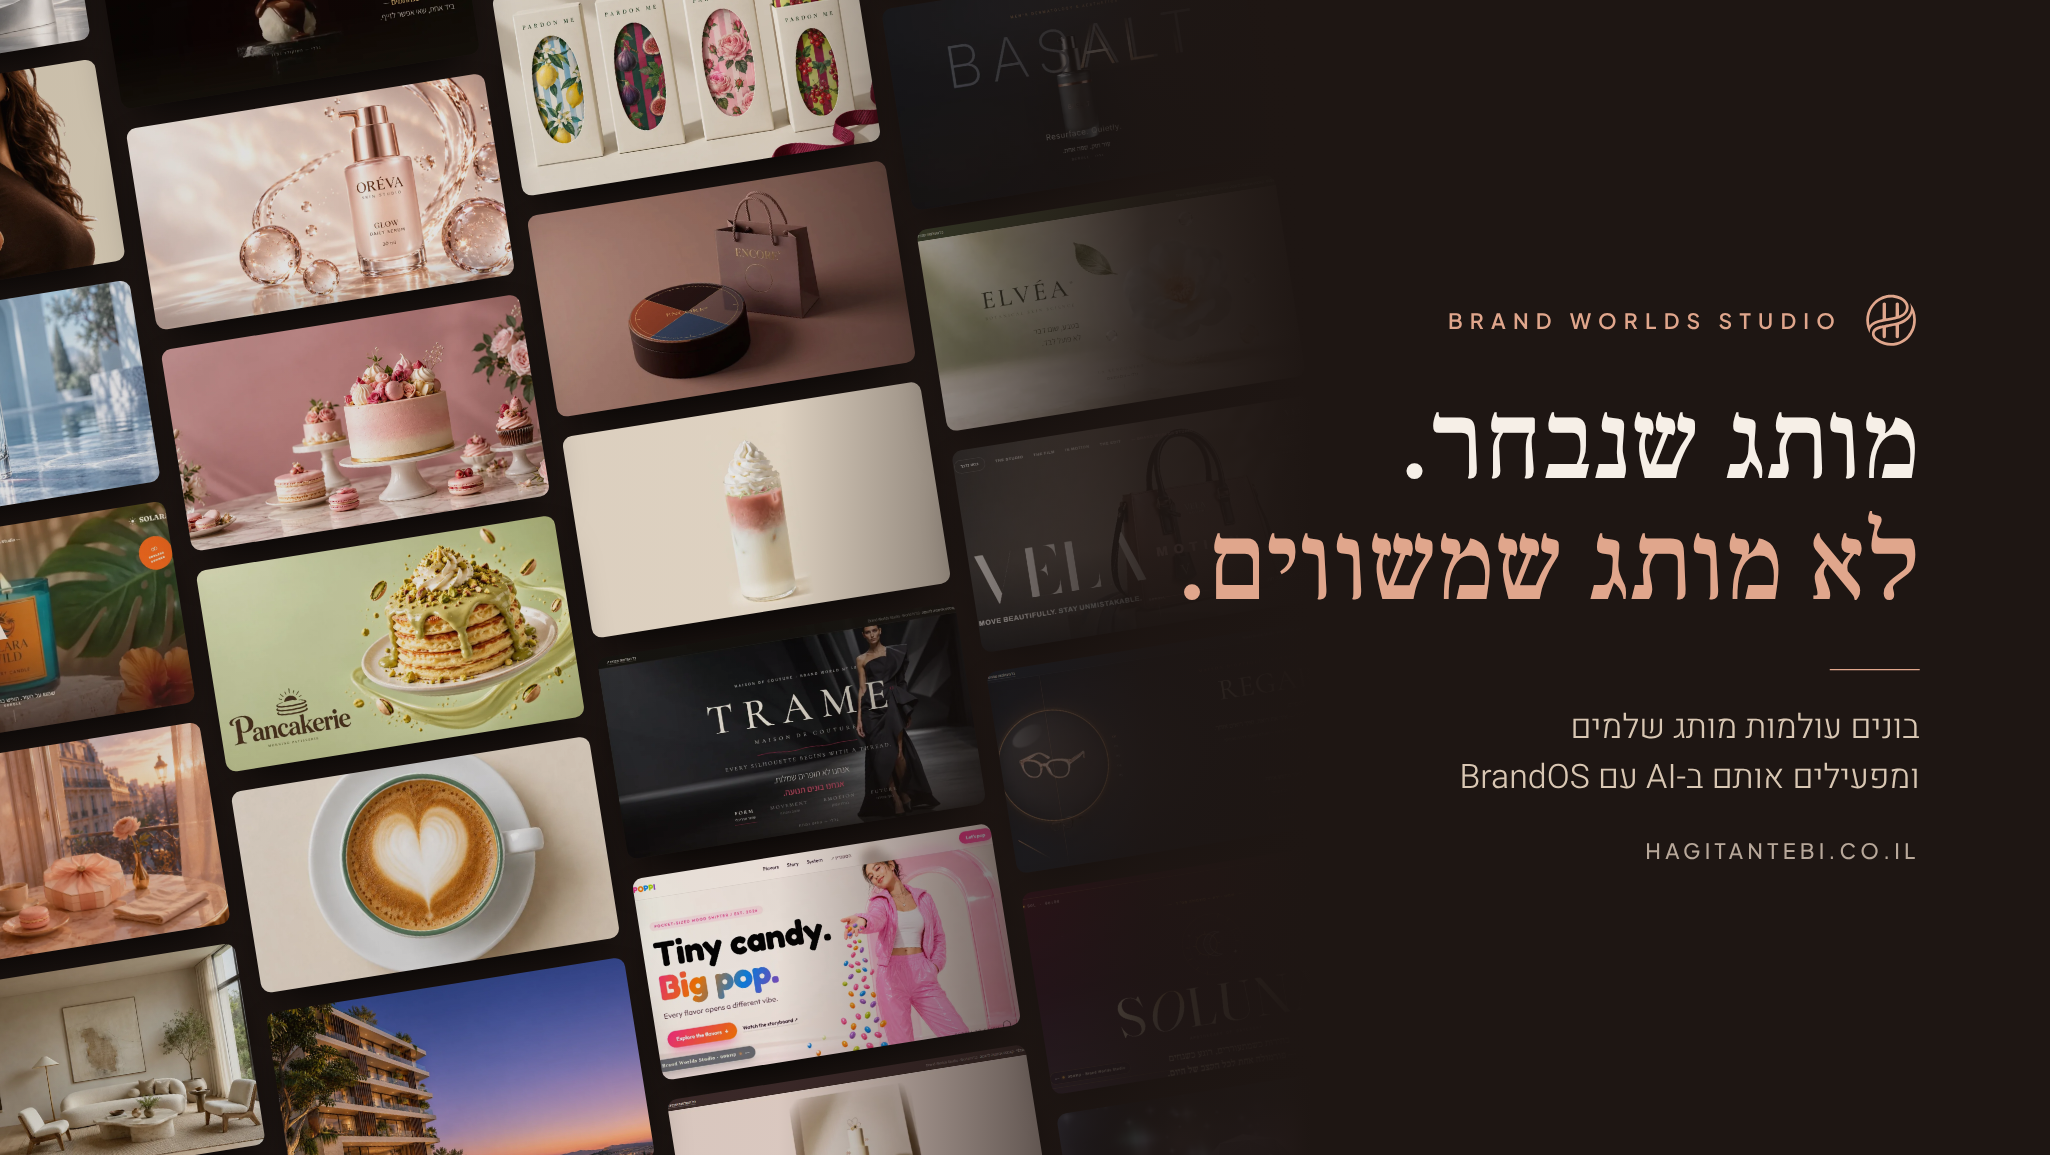
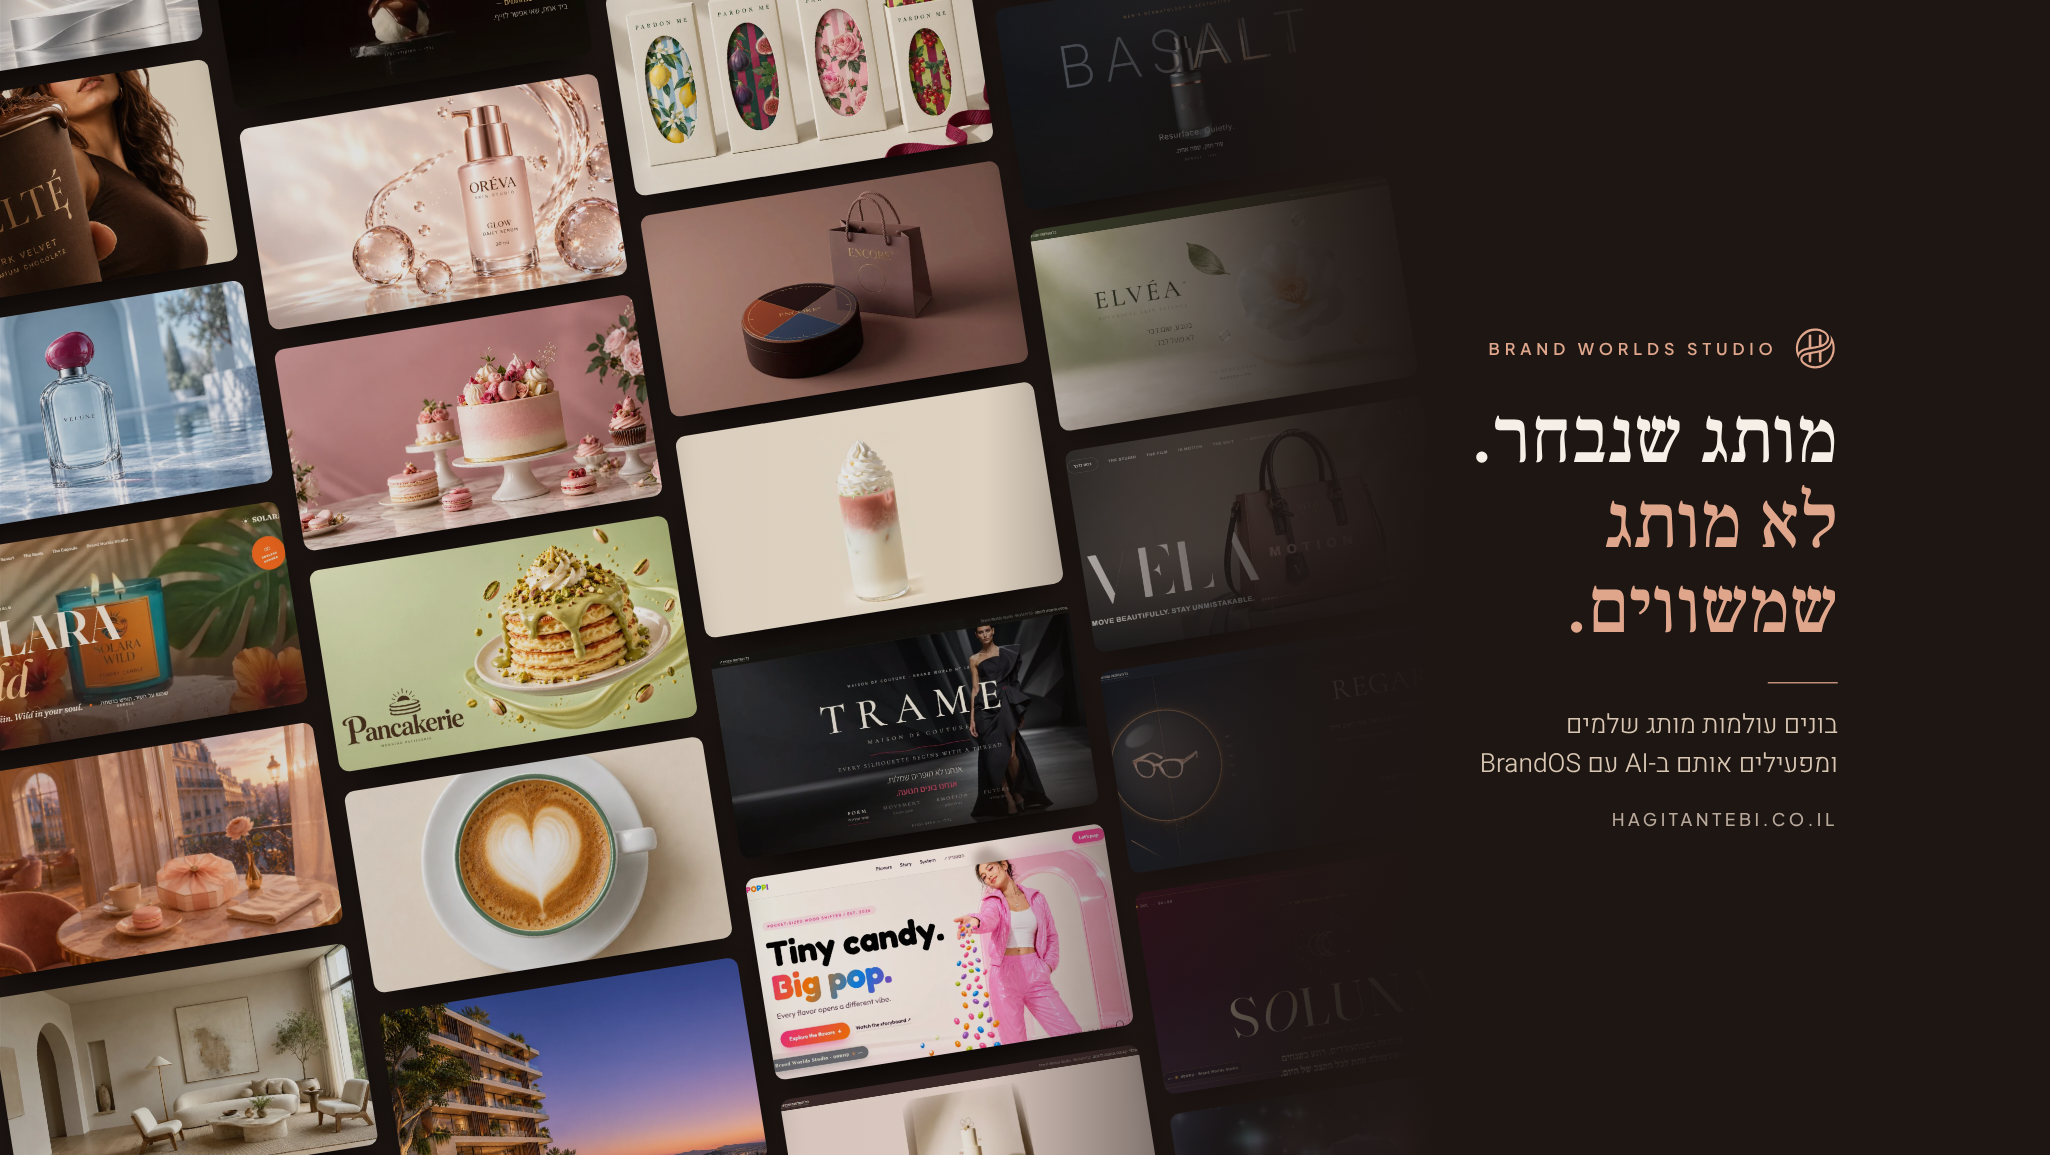
Rework Facebook covers for the mobile profile layout
Claude-Session: https://claude.ai/code/session_01Uv8GegvL6D9b9d1uM5DGhf

diff --git a/campaign-drop/2026-11-facebook-covers/src/business.html b/campaign-drop/2026-11-facebook-covers/src/business.html
@@ -3,18 +3,18 @@
 <style>
 *{margin:0;box-sizing:border-box}html{width:1640px;height:924px;overflow:hidden}
 body{width:1640px;height:924px;overflow:hidden;position:relative;background:#1E1613;font-family:'Heebo',sans-serif;color:#F6EFE7}
-.wall{position:absolute;left:-150px;top:-190px;width:1250px;display:grid;grid-template-columns:repeat(4,290px);gap:16px;transform:rotate(-9deg);direction:ltr}
+.wall{position:absolute;left:-60px;top:-190px;width:1250px;display:grid;grid-template-columns:repeat(4,290px);gap:16px;transform:rotate(-9deg);direction:ltr}
 .wall i{height:163px;border-radius:8px;background-size:cover;background-position:center;box-shadow:0 18px 40px -14px #000}
 .wall i:nth-child(4n+2),.wall i:nth-child(4n+4){transform:translateY(60px)}
-.fade{position:absolute;inset:0;background:linear-gradient(90deg,rgba(30,22,19,.15) 0%,rgba(30,22,19,.1) 38%,rgba(30,22,19,.9) 56%,#1E1613 64%)}
-.txt{position:absolute;right:104px;top:50%;transform:translateY(-50%);width:600px}
-.eye{display:flex;flex-direction:row-reverse;justify-content:flex-start;align-items:center;gap:16px;direction:ltr;font:600 17px 'Plus Jakarta Sans';letter-spacing:.34em;color:#E0A68C}
-.eye svg{width:46px;height:46px;color:#E0A68C}
-h1{font:500 88px/1.1 'Frank Ruhl Libre',serif;margin:28px 0 0;white-space:nowrap}
+.fade{position:absolute;inset:0;background:linear-gradient(90deg,rgba(30,22,19,.15) 0%,rgba(30,22,19,.1) 48%,rgba(30,22,19,.9) 64%,#1E1613 70%)}
+.txt{position:absolute;right:170px;top:50%;transform:translateY(-50%);width:340px}
+.eye{display:flex;flex-direction:row-reverse;justify-content:flex-start;align-items:center;gap:12px;direction:ltr;font:600 13px 'Plus Jakarta Sans';letter-spacing:.3em;white-space:nowrap;color:#E0A68C}
+.eye svg{width:36px;height:36px;color:#E0A68C}
+h1{font:500 62px/1.1 'Frank Ruhl Libre',serif;margin:20px 0 0;white-space:nowrap}
 h1 span{color:#E0A68C;display:block}
-.rule{width:72px;height:1px;background:#E0A68C;margin:34px 0 26px}
-.sub{font:300 27px/1.5 'Heebo';color:#D9C7B3}
-.url{margin-top:26px;font:500 17px 'Plus Jakarta Sans';letter-spacing:.2em;color:#B8A89A;direction:ltr;text-align:right}
+.rule{width:56px;height:1px;background:#E0A68C;margin:24px 0 18px}
+.sub{font:300 21px/1.5 'Heebo';color:#D9C7B3}
+.url{margin-top:18px;font:500 14px 'Plus Jakarta Sans';letter-spacing:.2em;color:#B8A89A;direction:ltr;text-align:right}
 </style></head><body>
 <div class="wall"><i style="background-image:url(../../../images/home-worlds/sonair.webp)"></i><i style="background-image:url(../../../images/home-worlds/signe.webp)"></i><i style="background-image:url(../../../images/home-worlds/lusha.webp)"></i><i style="background-image:url(../../../images/home-worlds/aurelle.webp)"></i><i style="background-image:url(../../../images/home-worlds/melte-card.webp)"></i><i style="background-image:url(../../../images/home-worlds/oreva.webp)"></i><i style="background-image:url(../../../images/home-worlds/pardon-me.webp)"></i><i style="background-image:url(../../../images/home-worlds/basalt.webp)"></i><i style="background-image:url(../../../images/home-worlds/velune.webp)"></i><i style="background-image:url(../../../images/home-worlds/miel.webp)"></i><i style="background-image:url(../../../images/home-worlds/encore.webp)"></i><i style="background-image:url(../../../images/home-worlds/elvea.webp)"></i><i style="background-image:url(../../../images/home-worlds/solara-wild.webp)"></i><i style="background-image:url(../../../images/home-worlds/pancakerie.webp)"></i><i style="background-image:url(../../../images/home-worlds/chasen.webp)"></i><i style="background-image:url(../../../images/home-worlds/vela-motion.webp)"></i><i style="background-image:url(../../../images/home-worlds/petale-card.webp)"></i><i style="background-image:url(../../../images/home-worlds/crema-card.webp)"></i><i style="background-image:url(../../../images/home-worlds/trame.webp)"></i><i style="background-image:url(../../../images/home-worlds/regard.webp)"></i><i style="background-image:url(../../../images/home-worlds/arco.webp)"></i><i style="background-image:url(../../../images/home-worlds/rue.webp)"></i><i style="background-image:url(../../../images/home-worlds/poppi.webp)"></i><i style="background-image:url(../../../images/home-worlds/soluna.webp)"></i><i style="background-image:url(../../../images/home-worlds/orbe.webp)"></i><i style="background-image:url(../../../images/home-worlds/bol.webp)"></i><i style="background-image:url(../../../images/home-worlds/etage.webp)"></i><i style="background-image:url(../../../images/home-worlds/lumera.webp)"></i></div>
 <div class="fade"></div>
@@ -26,7 +26,7 @@ h1 span{color:#E0A68C;display:block}
   </g>
 </svg>
 <span>BRAND WORLDS STUDIO</span></div>
- <h1>מותג שנבחר.<span>לא מותג שמשווים.</span></h1>
+ <h1>מותג שנבחר.<span>לא מותג<br>שמשווים.</span></h1>
  <div class="rule"></div>
  <div class="sub">בונים עולמות מותג שלמים<br>ומפעילים אותם ב-AI עם BrandOS</div>
  <div class="url">HAGITANTEBI.CO.IL</div>

diff --git a/campaign-drop/2026-11-facebook-covers/src/personal.html b/campaign-drop/2026-11-facebook-covers/src/personal.html
@@ -4,15 +4,15 @@
 *{margin:0;box-sizing:border-box}html{width:1640px;height:924px;overflow:hidden}
 body{width:1640px;height:924px;overflow:hidden;position:relative;
  background:radial-gradient(1200px 700px at 22% 55%,#F3E7DA 0%,#FAF8F3 60%),#FAF8F3;font-family:'Heebo',sans-serif;color:#4F372C}
-.txt{position:absolute;right:104px;top:50%;transform:translateY(-50%);width:640px}
-.eye{font:600 17px 'Plus Jakarta Sans';letter-spacing:.34em;color:#A45839;direction:ltr;text-align:right}
-h1{font:500 78px/1.1 'Frank Ruhl Libre',serif;margin:24px 0 0;white-space:nowrap}
+.txt{position:absolute;right:170px;top:50%;transform:translateY(-50%);width:340px}
+.eye{font:600 14px 'Plus Jakarta Sans';letter-spacing:.34em;color:#A45839;direction:ltr;text-align:right}
+h1{font:500 60px/1.1 'Frank Ruhl Libre',serif;margin:18px 0 0;white-space:nowrap}
 h1 span{color:#C4765A;display:block}
-.rule{width:72px;height:1px;background:#C4765A;margin:34px 0 26px}
-.sub{font:400 27px/1.5 'Heebo';color:#786A5E}
+.rule{width:56px;height:1px;background:#C4765A;margin:24px 0 18px}
+.sub{font:400 21px/1.5 'Heebo';color:#786A5E}
 .sub b{font-weight:500;color:#4F372C}
-.url{margin-top:26px;font:500 17px 'Plus Jakarta Sans';letter-spacing:.2em;color:#8B7355;direction:ltr;text-align:right}
-.row{position:absolute;left:84px;top:50%;transform:translateY(-50%);display:flex;gap:22px;direction:ltr;align-items:center}
+.url{margin-top:18px;font:500 14px 'Plus Jakarta Sans';letter-spacing:.2em;color:#8B7355;direction:ltr;text-align:right}
+.row{position:absolute;left:170px;top:50%;transform:translateY(-50%);display:flex;gap:22px;direction:ltr;align-items:center}
 .c{width:146px;text-align:center}
 .c i{display:block;height:400px;border-radius:73px 73px 6px 6px;background-size:cover;box-shadow:0 26px 50px -22px rgba(79,55,44,.45)}
 .c em{display:block;margin-top:14px;font:500 15px 'Cormorant Garamond';letter-spacing:.22em;font-style:normal;color:#8B7355}
@@ -26,10 +26,10 @@ h1 span{color:#C4765A;display:block}
  <div class="c"><i style="background-image:url(../../../images/home-worlds/pancakerie.webp);background-position:74% 50%"></i><em>PANCAKERIE°</em></div>
 </div>
 <div class="txt">
- <div class="eye">HAGIT ANTEBI · BRAND STRATEGIST</div>
- <h1>בונה עולמות<br>מותג שלמים.<span>ומפעילה אותם ב-AI.</span></h1>
+ <div class="eye">BRAND STRATEGIST</div>
+ <h1>בונה עולמות<br>מותג שלמים.<span>ומפעילה אותם<br>ב-AI.</span></h1>
  <div class="rule"></div>
- <div class="sub">מייסדת <b>Brand Worlds Studio</b><br>ומפתחת <b>BrandOS</b>, מערכת ההפעלה למותגים</div>
+ <div class="sub">מייסדת <b>Brand Worlds Studio</b><br>ומפתחת <b>BrandOS</b><br>מערכת ההפעלה למותגים</div>
  <div class="url">HAGITANTEBI.CO.IL</div>
 </div>
 </body></html>
